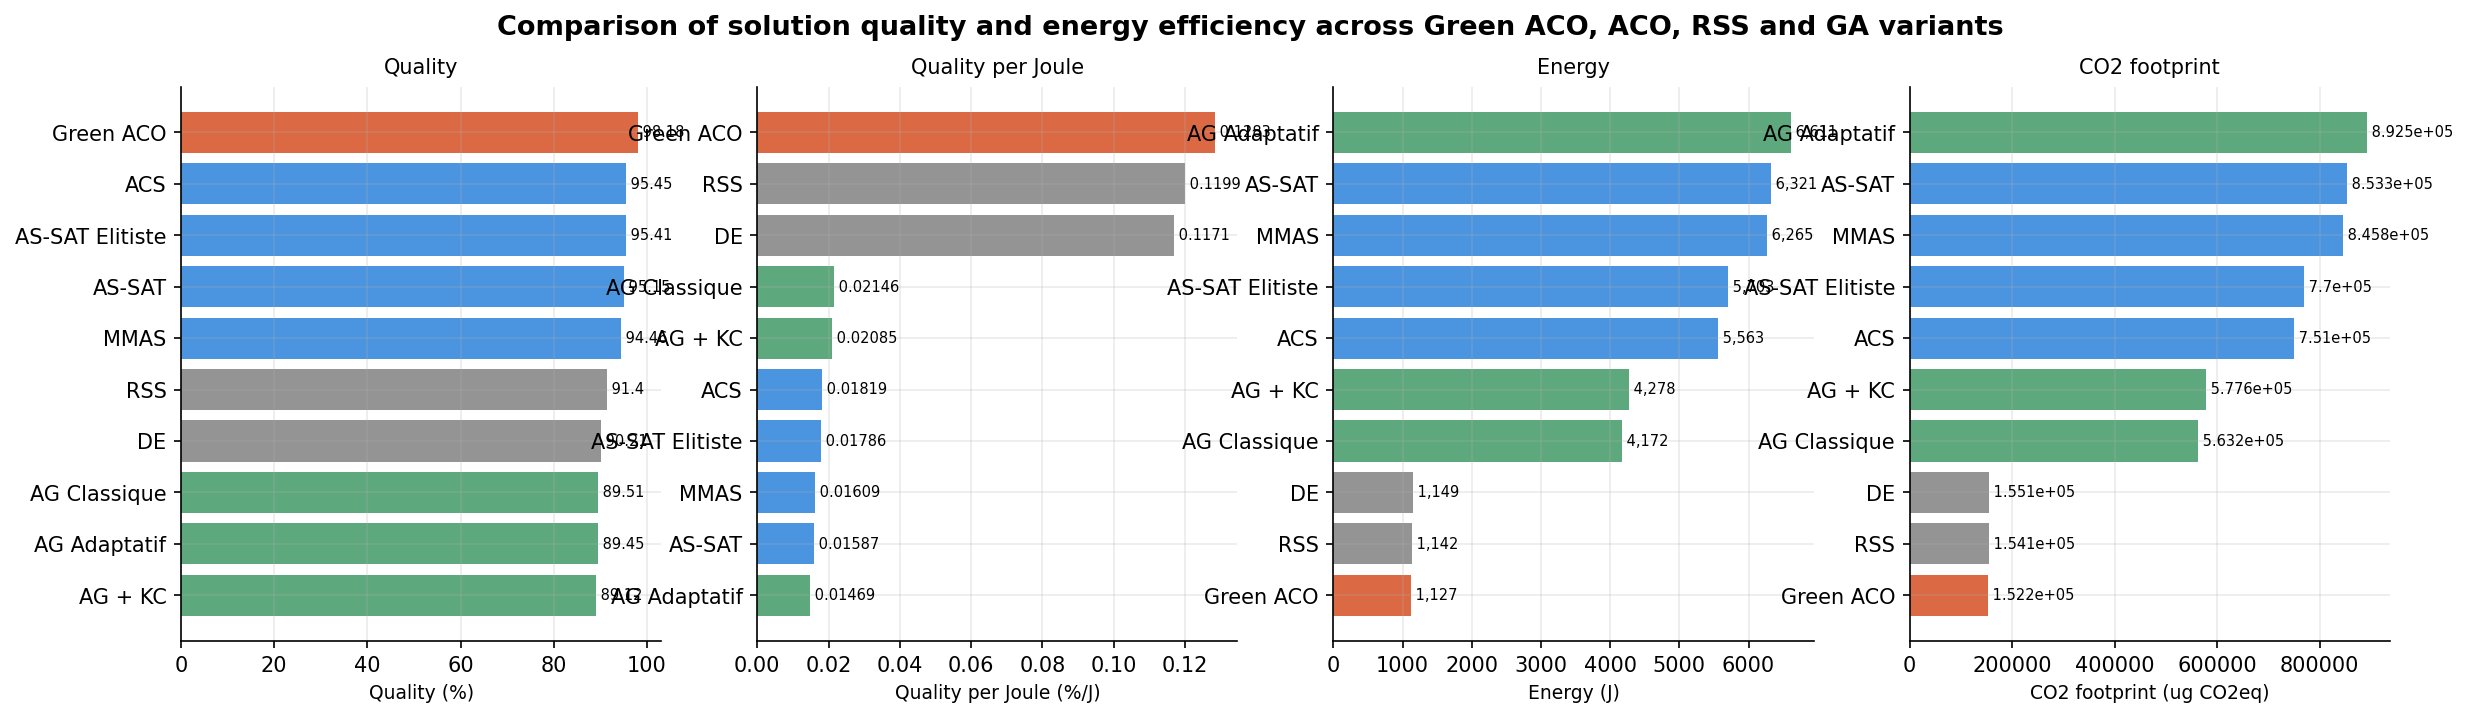
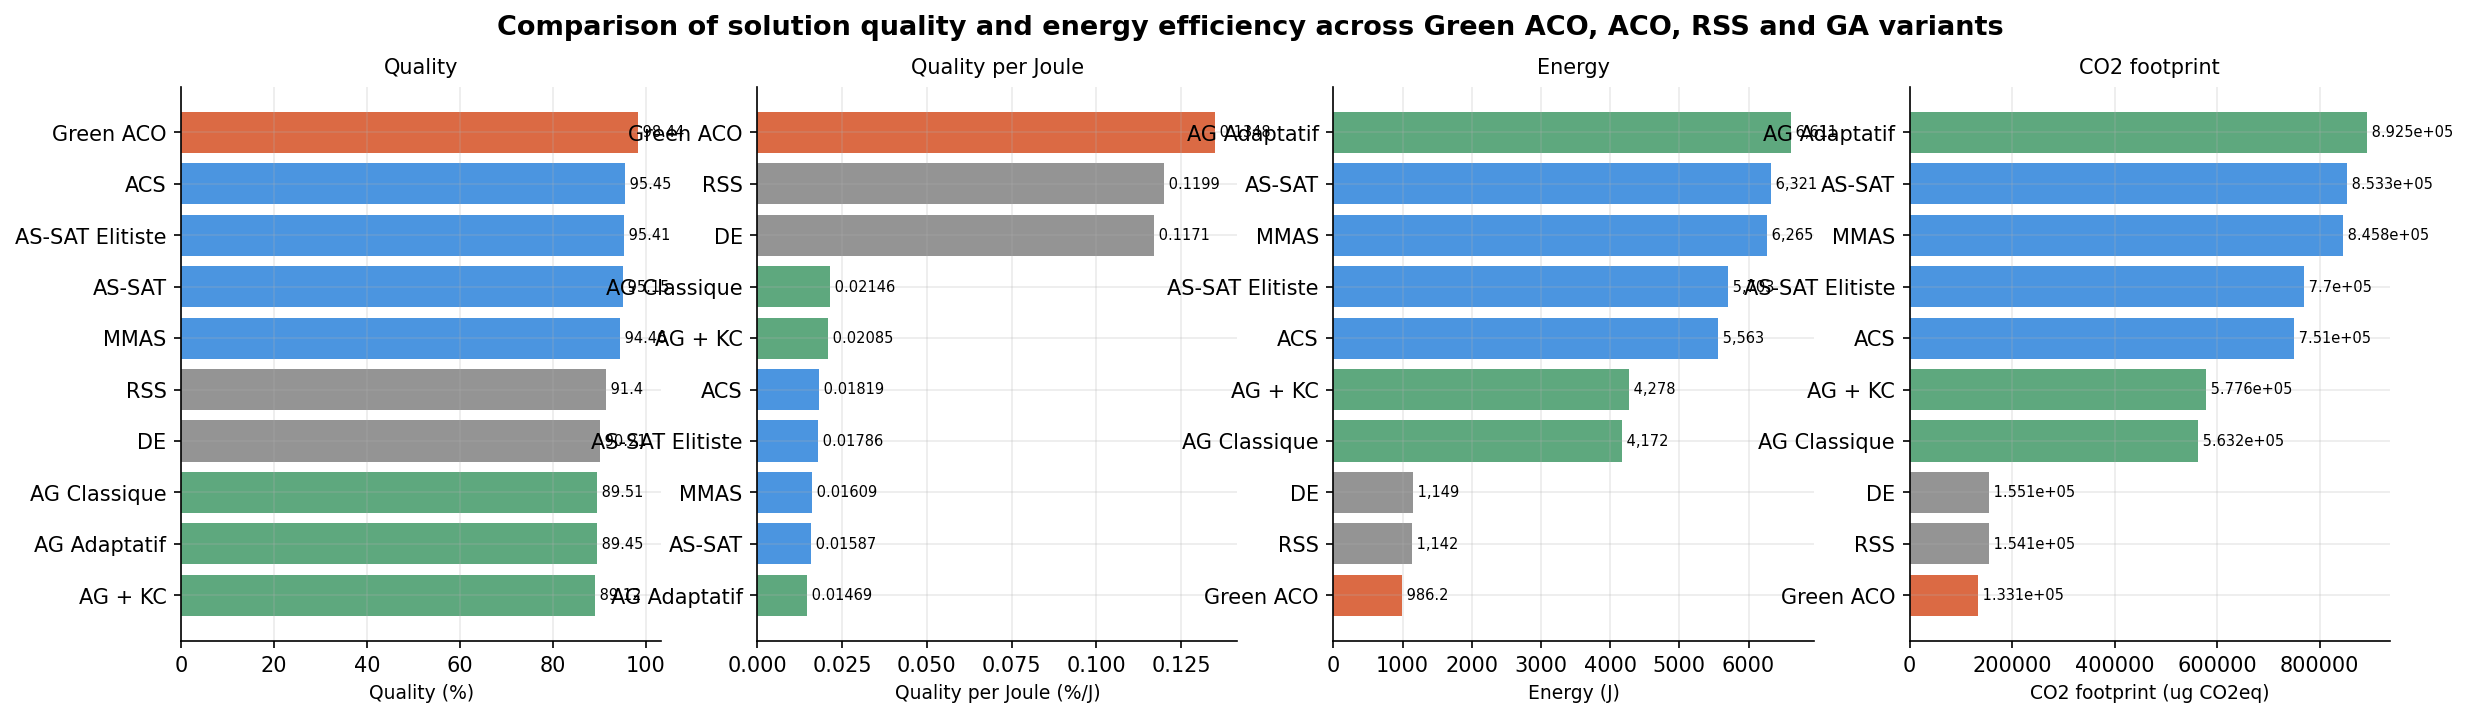
Identify the source of the article's Green ACO comparison figures
Section 4.9 reports Green ACO at 986 J and 0.135 %/J. Neither Green ACO file
in results/shipped matched: green_aco_results_v8.csv gives 1127.2 J and 0.1283,
and the earlier overrun_fix variant gives 1233.0 J and 0.1287.

scripts/find_paper_source.py now scans candidate CSVs and reports which one
backs a published figure. It identifies check this/best_params_results.csv:
986.2 J and 0.1348, matching the article to 0.02% and 0.12%, with a 7.05pp
quality gap over RSS against the reported 7.04pp. The RSS figures reproduce
exactly (1141.6 J, 0.1199), confirming the basis is a mean over all three
energy budgets on the four core instances.

That file is now shipped as green_aco_best_params.csv and drives the
comparison table, which reproduces the article's ordering with Green ACO
first.

green_aco_results_v8.csv is removed. It is a superseded precursor run, written
nineteen minutes before best_params_results.csv on 2025-05-22, with the same
instances, budgets and carbon intensity but slightly worse results. It backs
nothing in the article.

The overrun_fix variant uses a carbon intensity of 510 gCO2/kWh where the
article states 486. The reported figures are unaffected: they come from
best_params_results.csv, whose CO2 values are consistent with 486.

diff --git a/scripts/find_paper_source.py b/scripts/find_paper_source.py
@@ -1,0 +1,126 @@
+"""
+find_paper_source.py
+====================
+Locate which stored result file backs a set of published figures.
+
+Energy is a CodeCarbon *estimate* proportional to wall-clock time, so no two
+runs give identical numbers even with the same seed. A published figure can
+therefore only be matched by locating the run that produced it, not by
+recomputing it. This scans candidate CSVs, groups them by shape (one row per
+instance x budget, as the method comparison uses), and reports the mean energy
+and mean quality-per-Joule of each group against the target values.
+
+Usage:
+    python scripts/find_paper_source.py --energy 986 --spj 0.135
+    python scripts/find_paper_source.py --dir "C:/path/to/files" --energy 986
+"""
+
+from __future__ import annotations
+
+import argparse
+import sys
+from pathlib import Path
+
+import pandas as pd
+
+ROOT = Path(__file__).resolve().parents[1]
+sys.path.insert(0, str(ROOT / "src"))
+
+# Published values from the article (Section 4.9).
+PAPER_ENERGY_J = 986.0
+PAPER_SPJ = 0.135
+
+
+def summarise(path: Path) -> dict | None:
+    """Mean energy and SPJ of a candidate file, or None if it is not a run file."""
+    try:
+        df = pd.read_csv(path)
+    except Exception:
+        return None
+    if "energie_joules" not in df.columns or "score_per_joule" not in df.columns:
+        return None
+    if df["energie_joules"].dropna().empty:
+        return None
+
+    inst = next((c for c in ("instance", "benchmark") if c in df.columns), None)
+    return {
+        "file": path.name,
+        "rows": len(df),
+        "instances": df[inst].nunique() if inst else None,
+        "energy_j": float(df["energie_joules"].mean()),
+        "spj": float(df["score_per_joule"].mean()),
+        "quality": float(df["qualite_pct"].mean())
+        if "qualite_pct" in df.columns else None,
+        "carbon": df["ci_gco2_per_kwh"].iloc[0]
+        if "ci_gco2_per_kwh" in df.columns else None,
+    }
+
+
+def main() -> int:
+    parser = argparse.ArgumentParser(description=__doc__,
+                                     formatter_class=argparse
+                                     .RawDescriptionHelpFormatter)
+    parser.add_argument("--dir", default=None,
+                        help="Directory to scan (default: check this/ next to "
+                             "the repository).")
+    parser.add_argument("--energy", type=float, default=PAPER_ENERGY_J,
+                        help="Published mean energy in joules.")
+    parser.add_argument("--spj", type=float, default=PAPER_SPJ,
+                        help="Published mean quality per Joule.")
+    parser.add_argument("--tolerance", type=float, default=0.02,
+                        help="Relative tolerance for a match (default 2%%).")
+    args = parser.parse_args()
+
+    here = Path(args.dir) if args.dir else ROOT.parent / "check this"
+    if not here.exists():
+        print(f"directory not found: {here}")
+        return 1
+
+    print(f"scanning {here}\n")
+    print(f"{'file':44s} {'rows':>5s} {'inst':>5s} {'energy J':>10s} "
+          f"{'SPJ':>8s} {'CI':>5s}")
+    print("-" * 84)
+
+    rows = []
+    for path in sorted(here.glob("*.csv")):
+        info = summarise(path)
+        if info:
+            rows.append(info)
+            ci = f"{info['carbon']:.0f}" if info["carbon"] else "-"
+            print(f"{info['file'][:44]:44s} {info['rows']:5d} "
+                  f"{str(info['instances'] or '-'):>5s} "
+                  f"{info['energy_j']:10.1f} {info['spj']:8.4f} {ci:>5s}")
+
+    if not rows:
+        print("\nno candidate run files found")
+        return 1
+
+    print(f"\ntarget: energy {args.energy} J, SPJ {args.spj} "
+          f"(tolerance {args.tolerance:.1%})\n")
+    hits = []
+    for info in rows:
+        d_e = abs(info["energy_j"] - args.energy) / args.energy
+        d_s = abs(info["spj"] - args.spj) / args.spj
+        if d_e <= args.tolerance and d_s <= args.tolerance:
+            hits.append((info, d_e, d_s))
+
+    if hits:
+        print("MATCH:")
+        for info, d_e, d_s in hits:
+            print(f"  {info['file']}  energy off {d_e:.2%}, SPJ off {d_s:.2%}")
+    else:
+        print("no file matches both figures. Closest by energy:")
+        for info in sorted(rows, key=lambda r: abs(r["energy_j"] - args.energy))[:5]:
+            d_e = (info["energy_j"] - args.energy) / args.energy * 100
+            d_s = (info["spj"] - args.spj) / args.spj * 100
+            print(f"  {info['file'][:44]:44s} energy {info['energy_j']:8.1f} J "
+                  f"({d_e:+6.1f}%)   SPJ {info['spj']:.4f} ({d_s:+6.1f}%)")
+
+        carbons = {r["carbon"] for r in rows if r["carbon"]}
+        if len(carbons) > 1:
+            print(f"\nnote: carbon intensities present: {sorted(carbons)}")
+    return 0
+
+
+if __name__ == "__main__":
+    raise SystemExit(main())

diff --git a/scripts/make_figures.py b/scripts/make_figures.py
@@ -335,12 +335,12 @@ def main() -> int:
 
     runs = read(f"comparison_runs_{tag}.csv", results, paths.SHIPPED)
 
-    # Green ACO's own comparison row comes from the 4-instance sweep used for
-    # the method comparison (results/shipped/green_aco_variants.csv), not from
-    # the full benchmark sweep. Using the latter would compare a mean over 54
-    # instances against methods measured on 4, and at a single budget against
-    # means over all three.
-    own = read("green_aco_variants.csv", results, paths.SHIPPED)
+    # Green ACO's own comparison row comes from the 4-instance sweep reported
+    # in the article (results/shipped/green_aco_best_params.csv), not from the
+    # full benchmark sweep. The latter would compare a mean over 54 instances
+    # against methods measured on 4. The comparison is a mean over all three
+    # energy budgets, which is the basis the article's RSS figures match exactly.
+    own = read("green_aco_best_params.csv", results, paths.SHIPPED)
     if own is not None and runs is not None:
         # Replace any existing Green ACO rows rather than appending: the file
         # carries a row derived from the full benchmark sweep, which would

diff --git a/figures/table_summary_ranking.md b/figures/table_summary_ranking.md
@@ -1,6 +1,6 @@
 | Rank | Method | Quality (%) | Quality/J (%/J) | Energy (J) | CO2 (ug) |
 | --- | --- | --- | --- | --- | --- |
-| 1 | Green ACO | 98.1775 | 0.1283 | 1,127.2 | 152,176.8 |
+| 1 | Green ACO | 98.4409 | 0.1348 | 986.2 | 133,141.9 |
 | 2 | RSS | 91.3957 | 0.1199 | 1,141.6 | 154,109.4 |
 | 3 | DE | 90.2099 | 0.1171 | 1,148.6 | 155,057.0 |
 | 4 | AG Classique | 89.5079 | 0.0215 | 4,171.6 | 563,167.3 |
